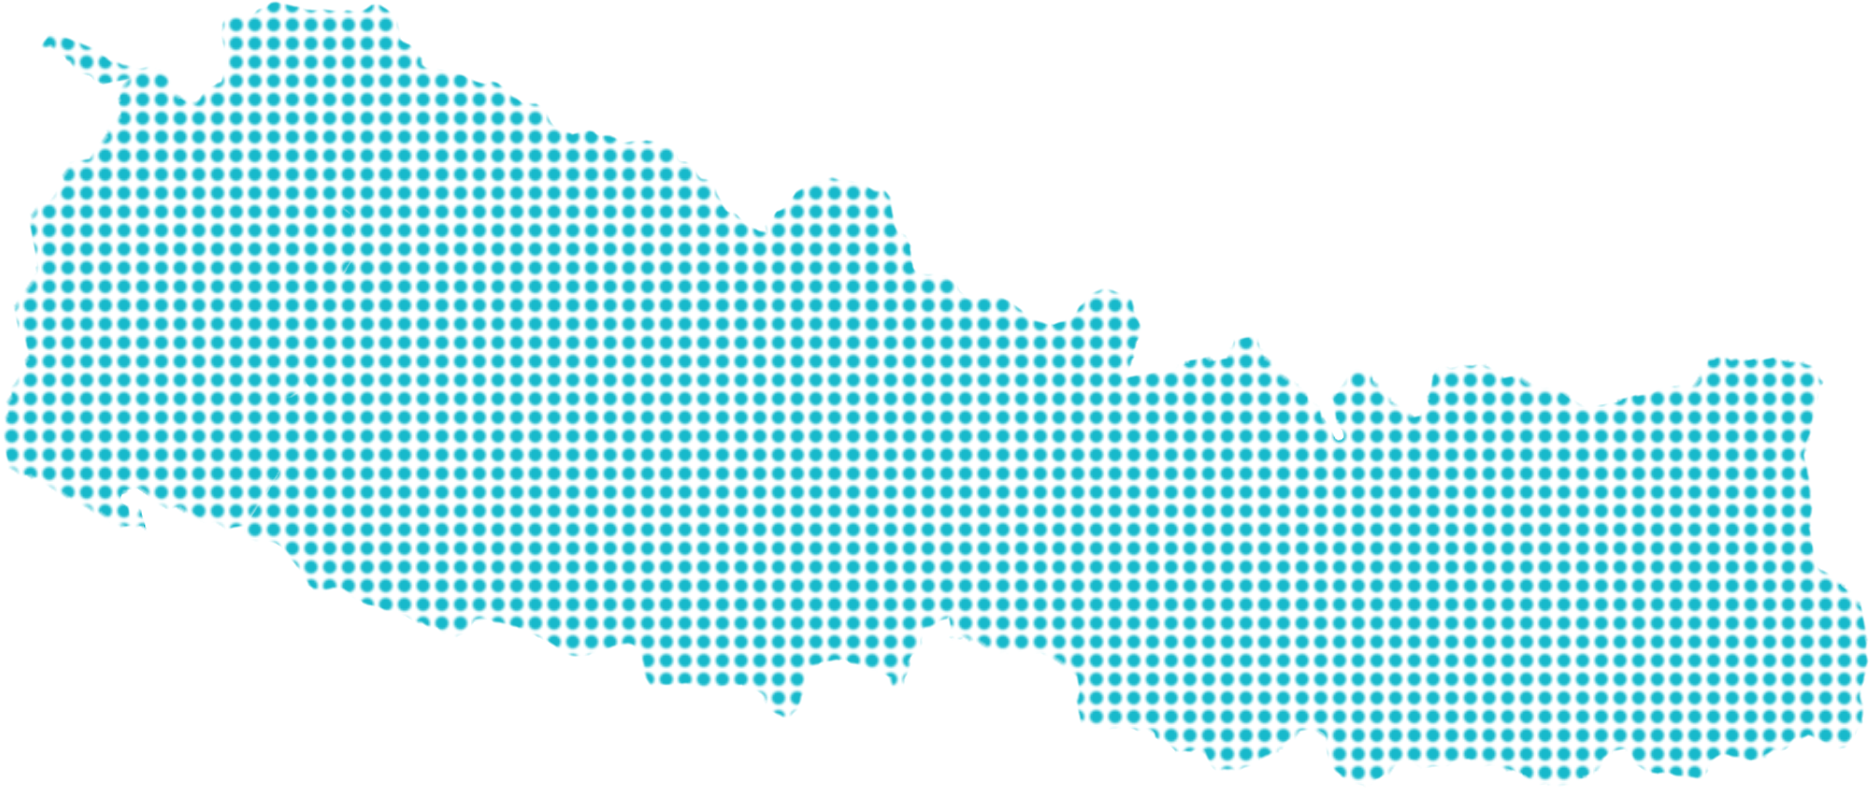
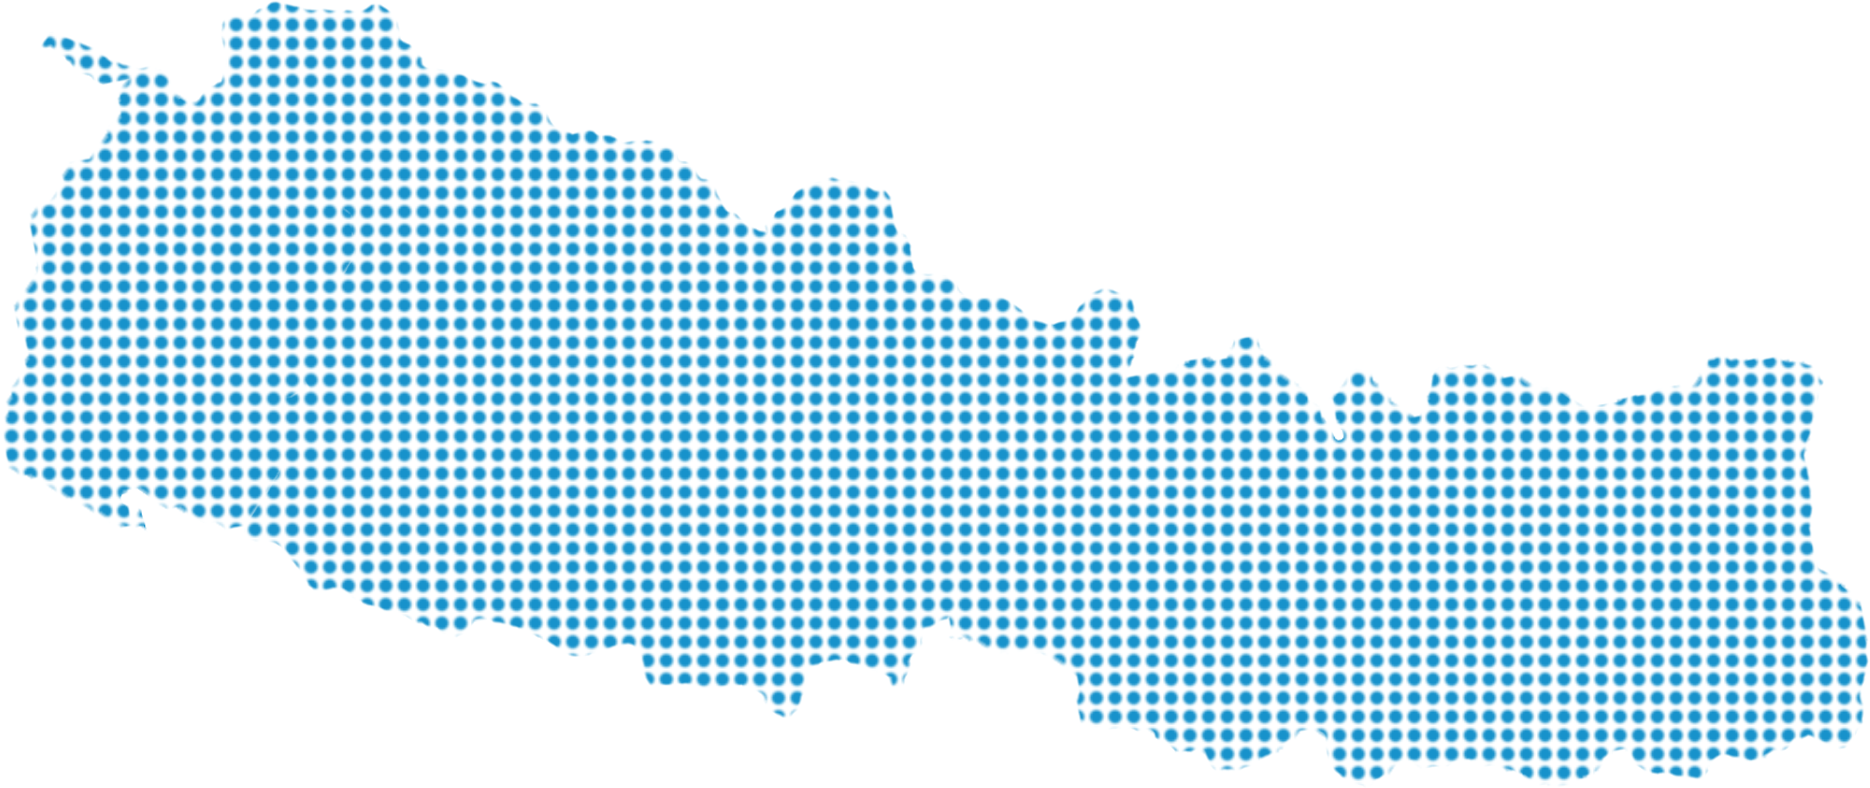
made the overflow clip for bleeding

Changed region(s): [[0.0, 0.0, 1.0, 1.0], [0.031, 0.0609, 0.062, 0.0914]]

diff --git a/src/App.css b/src/App.css
@@ -12,9 +12,12 @@ body,
   height: 100%;
   margin: 0;
   padding: 0;
+  overflow-x: clip;
+
 }
 
 .navbar {
+  
   position: absolute;
   top: 0%;
   left: 0;
@@ -27,6 +30,7 @@ body,
   justify-content: space-between;
   padding: 0px 60px 0px 80px;
   z-index: 10;
+  overflow: clip;
 }
 
 .logo {
@@ -92,6 +96,9 @@ body,
 }
 
 .hero-tittle h1 {
+  justify-content: center;
+  align-items: center;
+  text-align: center;
   margin-top: 100px;
   position: relative;
   z-index: 3;
@@ -209,8 +216,8 @@ body,
   border-radius: 999px;
   border: none;
 
-  background: #17b9cb; /* matches your hero accent */
-  color: #000;
+  background: #1792cb; /* matches your hero accent */
+  color: #ffffff;
 
   font-size: 16px;
   font-weight: 600;
@@ -221,7 +228,7 @@ body,
 
 .booking-button button:hover {
   transform: translateY(-2px);
-  box-shadow: 0 10px 20px #17b9cb
+  box-shadow: 0 10px 20px #1792cb;
 }
 
 
@@ -234,9 +241,12 @@ body,
   color: rgba(255, 255, 255, 0.9);
 }
 .Reach-page {
+  
   padding-left: 40px;
   padding-top: 40px;
   height: 100%;
+  margin-bottom: 90px;
+
 }
 
 .Reach-page h2 {
@@ -247,7 +257,7 @@ body,
 }
 
 .Reach-page span {
-  color: #17b9cb;
+  color: #1792cb;
 }
 
 .Reach-content p {
@@ -279,6 +289,7 @@ body,
   height: auto;
   max-width: 800px;
   margin-top: 10px;
+  
 }
 
 .reach-stats {

diff --git a/src/components/Imageshow.css b/src/components/Imageshow.css
@@ -1,23 +1,38 @@
-.Imageshowcase{
-    padding-left: 80px;
-    display: flex;
-    gap: 40px;
-    justify-content: center;
-    margin-top: 60px;
-    margin-bottom: 40px;
-    border-radius: 19px;
+.Imageshowcase {
+  position: relative;
+  margin: 50px -20px 40px 0px;
+  padding-left: 80px;
+  display: flex;
+  justify-content: center;
 }
+
 .Imageshowcase img {
-    width: 700px;
-    height: auto;
-    border-radius: 19px;
+  width: 1080px;
+  height: auto;
+  border-radius: 19px;
+  position: relative;
+  z-index: 10;
+  display: block;
 }
+
 .Imageshowcase-text {
-    text-align: center;
-    margin-top: 100px;
+  position: absolute;
+  top: 50%;
+  z-index: 20;
+  max-width: 420px;
+  transform: translateX(-75%);
+  gap: 1px;
 }
+
 .Imageshowcase-text h2 {
-    color: #179bc1;
-    font-size: 76px;
-    margin-bottom: 16px;
+  color: #ffffff;
+  transform: translateY(-50%);
+  font-size: 99px;
+  margin-top: 70px;
+}
+
+.Imageshowcase-text p {
+    margin-top: -20px;
+  font-size: 36px;
+  color: #ffffff;
 }

diff --git a/src/App.tsx b/src/App.tsx
@@ -3,8 +3,8 @@ import Hero from "./sections/Hero.tsx";
 import "./App.css";
 import Package from "./sections/Package.tsx";
 import Reach from "./sections/Reach.tsx";
-import Footer from "./Footer.tsx";
-import Imgbrd from "./sections/Imgbrd.tsx";
+import Footer from "./sections/Footer.tsx";
+import Imgbrd from "./sections/imgbrd.tsx";
 
 
 
@@ -12,12 +12,12 @@ const App: React.FC = () => {
   return (
     <>
       <Navbar />
-      <Hero />
-      <Package />
-      <Imgbrd />
-      <Reach />
-      <Footer />
-    </>
+  <Hero />
+  <Package />
+  <Imgbrd />
+  <Reach />
+  <Footer />
+</>
   );
 };
 

diff --git a/src/components/Productcard/package.css b/src/components/Productcard/package.css
@@ -14,7 +14,7 @@
 }
 
 .package-section span {
-    color: #17b9cb;
+    color: #1792cb;
 }
 
 .package-container {
@@ -30,7 +30,7 @@
   flex: 0 0 320px;
   flex-direction: column;
   height: 375px;
-  width: 320px;
+  width: 720px;
   background: #f4f4f4be;
   border-radius: 5px;
   padding: 16px;
@@ -69,7 +69,7 @@
   margin-top: 25px;
   align-items: right;
   font-size: 17px;
-  color: #17b9cb;
+  color: #1792cb;
   cursor: pointer;
 }
 

diff --git a/src/index.css b/src/index.css
@@ -1,22 +1,3 @@
-* {
-  margin: 0;
-  padding: 0;
-  box-sizing: border-box;
-
-}
-
-
-
-
-.hero {
-  height: calc(100vh - 70px);
-  display: flex;
-  flex-direction: column;
-  justify-content: center;
-  align-items: center;
-  text-align: center;
-  padding: 0 20px;
-}
 
 .hero h1 {
   font-size: 56px;
@@ -27,6 +8,7 @@
 
 
 .hero p {
+  text-align: center;
   max-width: 720px;
   margin-top: 24px;
   font-size: 14px;

diff --git a/src/components/Statcard/Stat-card.css b/src/components/Statcard/Stat-card.css
@@ -1,6 +1,6 @@
 .stat-card {
     background-color: rgb(228, 228, 228);
-    color: #17b9cb;
+    color: #1792cb;
     padding: 16px;
     border-radius: 5px;
     margin: 8px 0;
